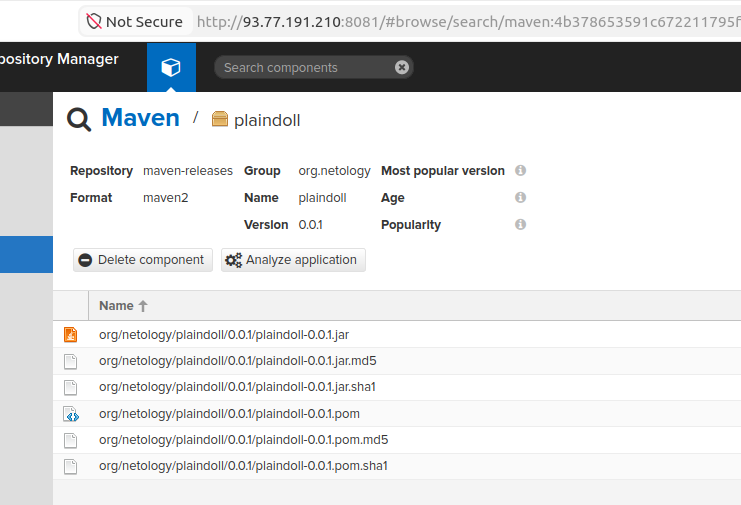
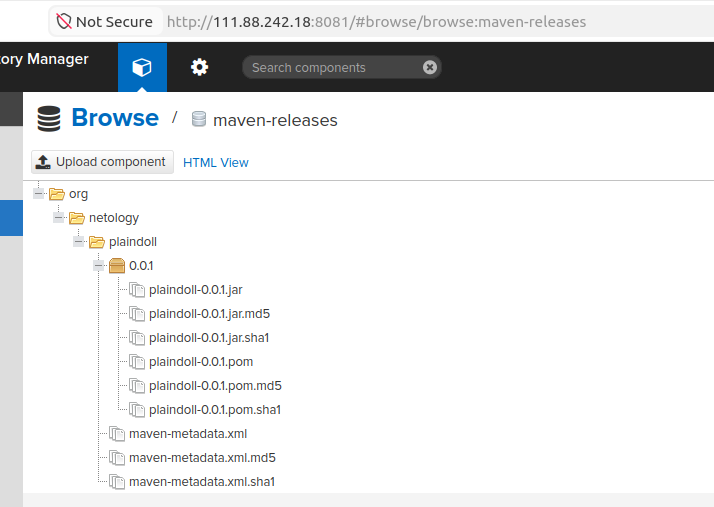
changes

diff --git a/Task17/README.md b/Task17/README.md
@@ -1,4 +1,10 @@
 # Регение домашнего задания к занятию 11 «Teamcity»
 ## Основная часть
-  - П.1-3, <img src="/docs/images/Task17/Screen-87.png" alt="Скриншот загруженного репозитория с существующим шагом" width="470" height="300">  
-  - П. 4-7, <img src="/docs/images/Task17/Screen-88.png" alt="Скриншот изменения в nexus" width="470" height="300">  
+  - П.1-3,  
+  <img src="/docs/images/Task17/Screen-87.png" alt="Скриншот загруженного репозитория с существующим шагом" width="470" height="300">  
+  - П. 4-7,  
+  <img src="/docs/images/Task17/Screen-88.png" alt="Скриншот изменения в nexus" width="470" height="300">  
+  - П. 8, миграция  
+  <img src="/docs/images/Task17/Screen-89.png" alt="Скриншот данных в репозитории" width="470" height="300">  
+  - П. 13, успешное выполнение  
+  <img src="/docs/images/Task17/Screen-90.png" alt="Скриншот выполнения шага" width="370" height="200">  
